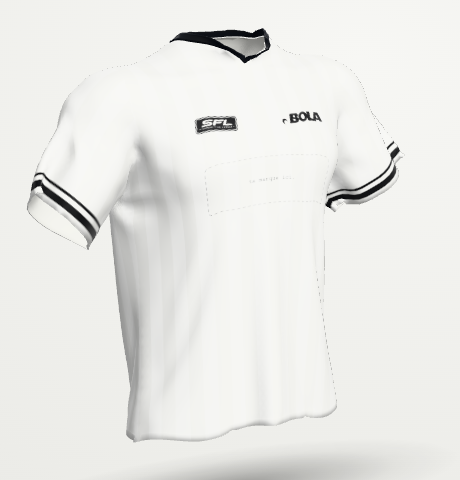
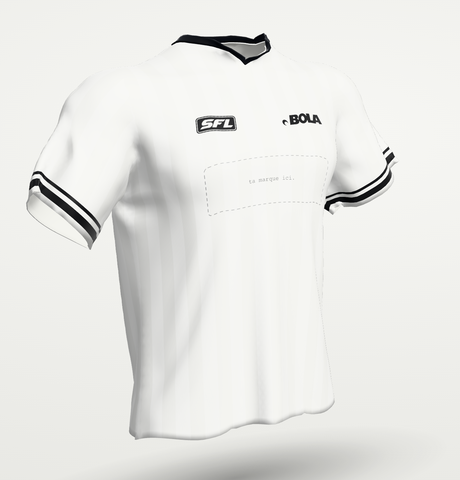
Studio photo : le maillot de référence porte le nouveau badge SFL
- public/avatars/maillot-blanc.png et maillot-noir.png : refaits sur
  bola-site /sponsoring (sans sponsor), même angle et même cadrage, avec le
  badge au sigle SFL unique ; l'ancien montrait le tracé automatique et sa
  ligne « — SUNDAY FIVE LEAGUE — ».
- tools/sigle-sfl.ts --serre : le même tracé cadré au plus près des lettres,
  pour le badge du maillot qui pose le sigle dans sa propre pastille.
- journees-depliables.tsx : l'import du sigle déplacé, pour ne pas croiser
  celui de la PR des maillots noir et blanc.

Claude-Session: https://claude.ai/code/session_01RCU4BRvNHRVEJXysszA2Dm

diff --git a/tools/sigle-sfl.ts b/tools/sigle-sfl.ts
@@ -21,8 +21,11 @@
 // x' = x + (100 − y) × 0,4 ; les arcs deviennent des courbes de Bézier, que le
 // cisaillement garde exactes.
 //
-//   npx tsx tools/sigle-sfl.ts            écrit public/bola/sfl.svg
-//   npx tsx tools/sigle-sfl.ts <fichier>  l'écrit ailleurs (le maillot du site)
+//   npx tsx tools/sigle-sfl.ts                    écrit public/bola/sfl.svg
+//   npx tsx tools/sigle-sfl.ts <fichier>          l'écrit ailleurs
+//   npx tsx tools/sigle-sfl.ts --serre <fichier>  cadré au plus près des lettres,
+//     sans les marges du logo BOLA : le badge du maillot (bola-site,
+//     public/sponsoring/sfl.svg), qui pose le sigle dans sa propre pastille.
 
 import { writeFileSync } from "node:fs";
 import { join } from "node:path";
@@ -139,7 +142,7 @@ function contour(pts: Sommet[]): { depart: Pt; segs: Segment[] } {
 
 const cisaille = ([x, y]: Pt): Pt => [x + (100 - y) * P.k, y];
 
-export function sigleSfl(couleur = "#08090B"): string {
+export function sigleSfl(couleur = "#08090B", serre = false): string {
   const contours = glyphes().map(contour);
   const tous = contours.flatMap((c) => [c.depart, ...c.segs.flatMap((s) => ("L" in s ? [s.L] : s.C))]).map(cisaille);
   const x0 = Math.min(...tous.map((p) => p[0]));
@@ -169,8 +172,11 @@ export function sigleSfl(couleur = "#08090B"): string {
       return `${s}Z`;
     })
     .join("");
+  const cadre = serre
+    ? `${MARGE} ${+(BASE - CAP).toFixed(2)} ${+((x1 - x0) * sc).toFixed(2)} ${+CAP.toFixed(2)}`
+    : `0 0 ${largeur} ${HAUT}`;
   return [
-    `<svg xmlns="http://www.w3.org/2000/svg" viewBox="0 0 ${largeur} ${HAUT}" role="img" aria-label="SFL">`,
+    `<svg xmlns="http://www.w3.org/2000/svg" viewBox="${cadre}" role="img" aria-label="SFL">`,
     `<!-- Le sigle SFL (Sunday Five League), redessiné le 23/10/2026 d'après le logo d'origine, à la graisse et à l'angle de BOLA. Généré par tools/sigle-sfl.ts : ne pas éditer à la main. -->`,
     `<path fill="${couleur}" d="${d}"/>`,
     `</svg>`,
@@ -179,7 +185,9 @@ export function sigleSfl(couleur = "#08090B"): string {
 }
 
 if (import.meta.url === `file://${process.argv[1]}`) {
-  const sortie = process.argv[2] ?? join(import.meta.dirname, "..", "public", "bola", "sfl.svg");
-  writeFileSync(sortie, sigleSfl());
-  console.log(`sigle SFL écrit dans ${sortie}`);
+  const args = process.argv.slice(2);
+  const serre = args.includes("--serre");
+  const sortie = args.find((a) => a !== "--serre") ?? join(import.meta.dirname, "..", "public", "bola", "sfl.svg");
+  writeFileSync(sortie, sigleSfl("#08090B", serre));
+  console.log(`sigle SFL${serre ? " (serré)" : ""} écrit dans ${sortie}`);
 }

diff --git a/src/components/sfl/feed/journees-depliables.tsx b/src/components/sfl/feed/journees-depliables.tsx
@@ -14,9 +14,9 @@
 import { useState } from "react";
 import { ChevronDown, ArrowRight } from "lucide-react";
 import { cn } from "@/lib/utils";
+import { SigleLigue } from "@/components/sfl/choix-ligue";
 import type { Journee } from "@/lib/sfl/engine";
 import { Nom } from "@/components/sfl/nom";
-import { SigleLigue } from "@/components/sfl/choix-ligue";
 
 /** « Orange 7 — 5 Bleu », ou le nombre de matchs si la journée en a plusieurs. */
 function resume(j: Journee): string {
